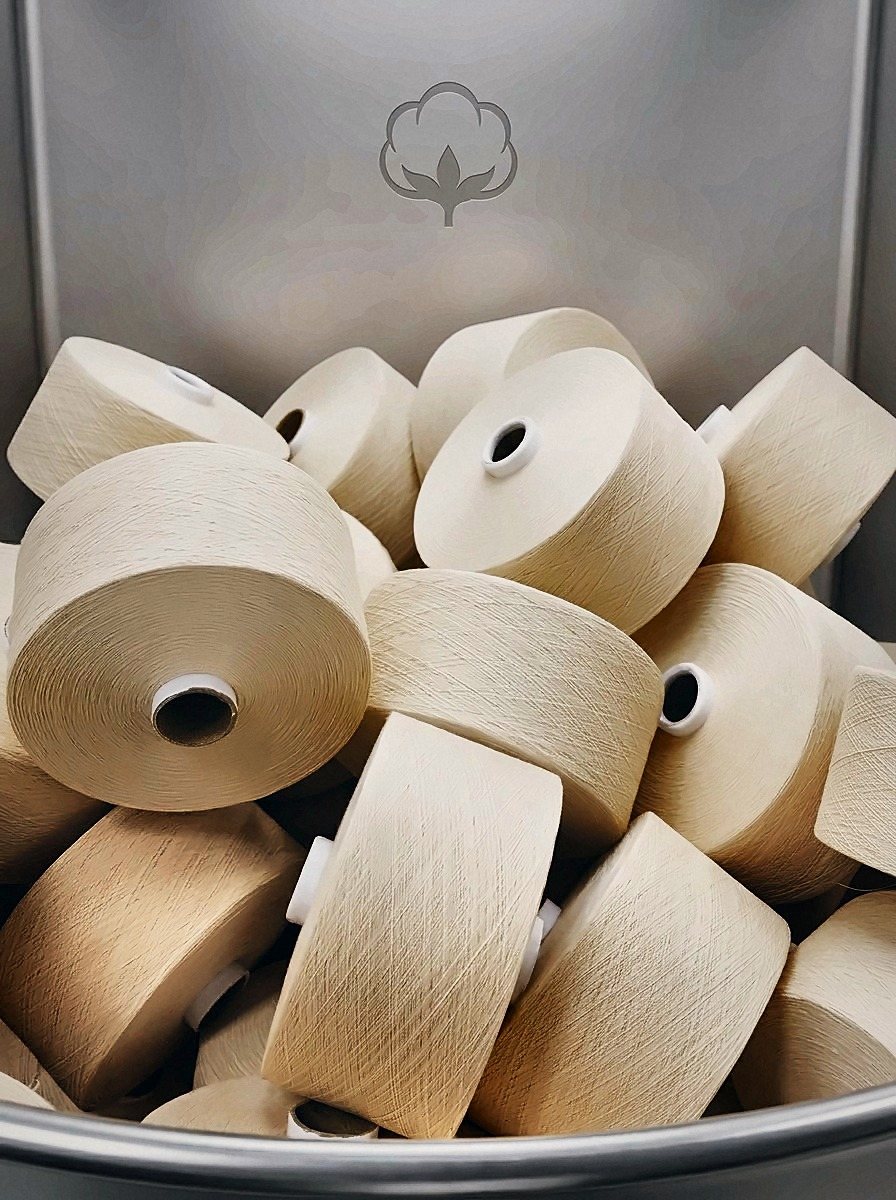
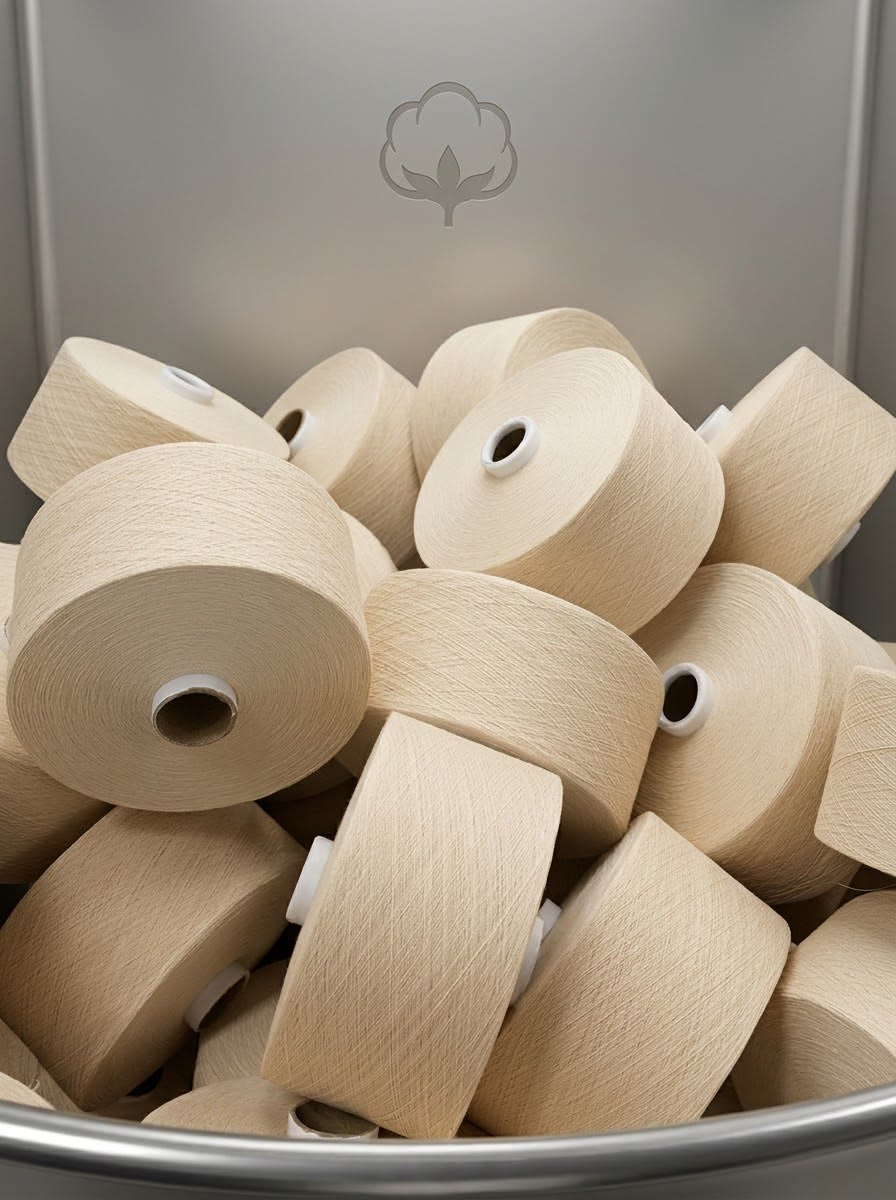
Yarn gallery: restore the ALTYN PAMYK cones photo without grading
Claude-Session: https://claude.ai/code/session_016sCuQnP49GbCoufDb1CL6c

diff --git a/docs/ru/yarn.html b/docs/ru/yarn.html
@@ -109,7 +109,7 @@
           <figcaption>Линия разрыхления кип</figcaption>
         </figure>
         <figure class="photo">
-          <img src="../assets/img/yarn-4.jpg?v=b26a6412" alt="Пряжа ALTYN PAMYK" loading="lazy">
+          <img src="../assets/img/yarn-4.jpg?v=b0253550" alt="Пряжа ALTYN PAMYK" loading="lazy">
           <figcaption>Пряжа ALTYN PAMYK</figcaption>
         </figure>
         <figure class="photo">

diff --git a/docs/tk/yarn.html b/docs/tk/yarn.html
@@ -109,7 +109,7 @@
           <figcaption>Tuplary ýazdyryş liniýasy</figcaption>
         </figure>
         <figure class="photo">
-          <img src="../assets/img/yarn-4.jpg?v=b26a6412" alt="ALTYN PAMYK ýüplügi" loading="lazy">
+          <img src="../assets/img/yarn-4.jpg?v=b0253550" alt="ALTYN PAMYK ýüplügi" loading="lazy">
           <figcaption>ALTYN PAMYK ýüplügi</figcaption>
         </figure>
         <figure class="photo">

diff --git a/docs/en/yarn.html b/docs/en/yarn.html
@@ -109,7 +109,7 @@
           <figcaption>Bale opening line</figcaption>
         </figure>
         <figure class="photo">
-          <img src="../assets/img/yarn-4.jpg?v=b26a6412" alt="ALTYN PAMYK yarn" loading="lazy">
+          <img src="../assets/img/yarn-4.jpg?v=b0253550" alt="ALTYN PAMYK yarn" loading="lazy">
           <figcaption>ALTYN PAMYK yarn</figcaption>
         </figure>
         <figure class="photo">
